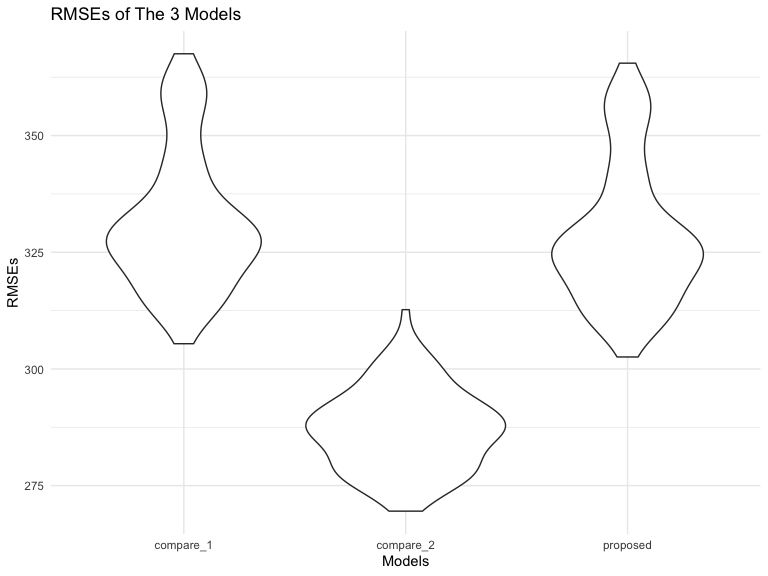
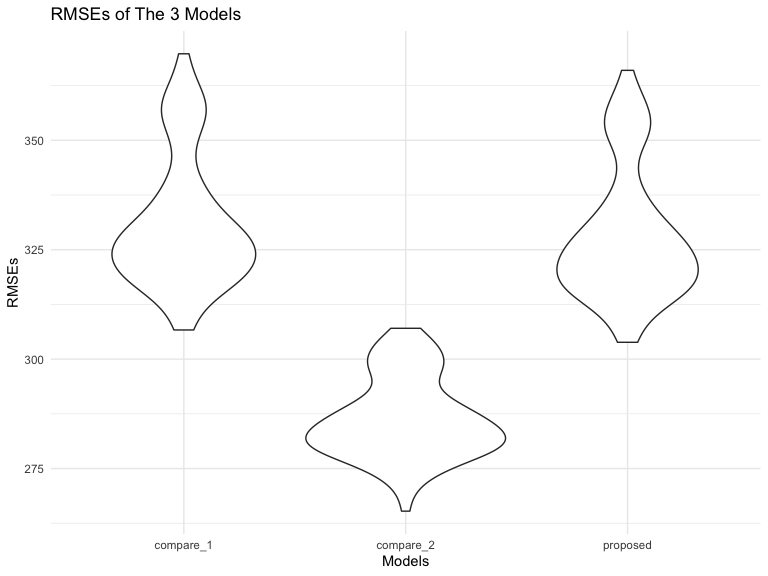
Add explaination to p2 and p3

diff --git a/p8105_hw6_hj2596.md b/p8105_hw6_hj2596.md
@@ -38,7 +38,9 @@ homicide_data=
 ```
 
 Created a new variable `city_state` by concatenating city and state,
-seperateing with ‘,’.
+seperateing with ‘,’. Omitted cities Dallas, TX; Phoenix, AZ; and Kansas
+City, MO– these don’t report victim race. Also omitted Tulsa, AL – this
+is a data entry mistake.
 
 ``` r
 logistic_Baltimore = 
@@ -46,6 +48,10 @@ logistic_Baltimore =
   filter(city_state == "Baltimore, MD") %>% 
   glm(solved ~ victim_age + victim_sex + victim_race, data = ., family = binomial()) 
 ```
+
+Use glm on the to fit a lofisitc regression model with resolved vs
+unresolved as the outcome and victim age, sex and race as predictors.
+Save the output of glm as an R object;
 
 ``` r
 logistic_Baltimore %>% 
@@ -56,6 +62,8 @@ logistic_Baltimore %>%
     ##   null.deviance df.null logLik   AIC   BIC deviance df.residual  nobs
     ##           <dbl>   <int>  <dbl> <dbl> <dbl>    <dbl>       <int> <int>
     ## 1         3568.    2752 -1746. 3501. 3524.    3493.        2749  2753
+
+Take a glance at the saved result.
 
 ``` r
 logistic_Baltimore %>% 
@@ -74,6 +82,10 @@ logistic_Baltimore %>%
 |:---------------|---------:|------:|---------:|---------:|
 | victim_sexMale |   -0.854 | 0.426 |    0.325 |    0.558 |
 
+Use broom tidy to tidy up the result. Get the odds ratio of case being
+solved comparing those with sex as male to those with sex as female and
+the 95% CI for it.
+
 ``` r
 logistic_all_cities = function(dataset) {
     dataset %>%
@@ -88,8 +100,9 @@ logistic_all_cities = function(dataset) {
 }
 ```
 
-Create a function to be applied to the dataset in the next steps for
-each of the cities.
+Create a function to fit the regression model and get the odds ratio and
+CI similar to the process we have done to Baltimore. It is going to be
+applied to the data set in the next steps for each of the cities.
 
 ``` r
 logit_result_cities = 
@@ -170,11 +183,14 @@ logit_result_cities %>%
 ```
 
 <img src="p8105_hw6_hj2596_files/figure-gfm/unnamed-chunk-9-1.png" width="90%" />
-
 Run glm on each city_state and get the Odds Ratio of case being solved
 comparing those with sex as male to those with sex as female, and also
 get the CI of that OR. Using geom_error bar to show the OR and the CI
-together in one plot.
+together in one plot. We can see that New York, NY has the smallest odds
+ratio of solving homicides comparing those identified as male to those
+identified as female. And Albuquerque, NM has the highest odds ratio of
+solving homicides comparing those identidied as male to those identified
+as female.
 
 # Question 3
 
@@ -202,18 +218,21 @@ birthweight_data =
 proposed_model = lm(bwt ~ fincome+blength+gaweeks, data = birthweight_data)
 ```
 
+The proposed model I have is using using family monthly income (in
+hundreds, rounded), length at birth and gestational age as predictors.
+
 ``` r
 proposed_model %>%
   broom::tidy() %>% 
-  knitr::kable(digits = 4)
+  knitr::kable(digits = 3)
 ```
 
-| term        |   estimate | std.error | statistic | p.value |
-|:------------|-----------:|----------:|----------:|--------:|
-| (Intercept) | -4335.8348 |   97.1685 |  -44.6218 |       0 |
-| fincome     |     1.6579 |    0.1944 |    8.5280 |       0 |
-| blength     |   127.8218 |    1.9755 |   64.7029 |       0 |
-| gaweeks     |    25.8180 |    1.7100 |   15.0984 |       0 |
+| term        |  estimate | std.error | statistic | p.value |
+|:------------|----------:|----------:|----------:|--------:|
+| (Intercept) | -4335.835 |    97.169 |   -44.622 |       0 |
+| fincome     |     1.658 |     0.194 |     8.528 |       0 |
+| blength     |   127.822 |     1.976 |    64.703 |       0 |
+| gaweeks     |    25.818 |     1.710 |    15.098 |       0 |
 
 ``` r
 proposed_plot =
@@ -252,16 +271,16 @@ cv_df
     ## # A tibble: 100 × 9
     ##    train    test     .id   proposed compare_1 compare_2 rmse_p…¹ rmse_…² rmse_…³
     ##    <list>   <list>   <chr> <list>   <list>    <list>       <dbl>   <dbl>   <dbl>
-    ##  1 <tibble> <tibble> 001   <lm>     <lm>      <lm>          327.    328.    287.
-    ##  2 <tibble> <tibble> 002   <lm>     <lm>      <lm>          318.    321.    292.
-    ##  3 <tibble> <tibble> 003   <lm>     <lm>      <lm>          319.    323.    290.
-    ##  4 <tibble> <tibble> 004   <lm>     <lm>      <lm>          330.    332.    288.
-    ##  5 <tibble> <tibble> 005   <lm>     <lm>      <lm>          314.    319.    275.
-    ##  6 <tibble> <tibble> 006   <lm>     <lm>      <lm>          325.    327.    278.
-    ##  7 <tibble> <tibble> 007   <lm>     <lm>      <lm>          366.    368.    306.
-    ##  8 <tibble> <tibble> 008   <lm>     <lm>      <lm>          356.    361.    301.
-    ##  9 <tibble> <tibble> 009   <lm>     <lm>      <lm>          321.    325.    286.
-    ## 10 <tibble> <tibble> 010   <lm>     <lm>      <lm>          326.    329.    284.
+    ##  1 <tibble> <tibble> 001   <lm>     <lm>      <lm>          338.    340.    288.
+    ##  2 <tibble> <tibble> 002   <lm>     <lm>      <lm>          316.    318.    279.
+    ##  3 <tibble> <tibble> 003   <lm>     <lm>      <lm>          332.    336.    286.
+    ##  4 <tibble> <tibble> 004   <lm>     <lm>      <lm>          309.    312.    265.
+    ##  5 <tibble> <tibble> 005   <lm>     <lm>      <lm>          315.    320.    284.
+    ##  6 <tibble> <tibble> 006   <lm>     <lm>      <lm>          322.    326.    283.
+    ##  7 <tibble> <tibble> 007   <lm>     <lm>      <lm>          328.    328.    286.
+    ##  8 <tibble> <tibble> 008   <lm>     <lm>      <lm>          338.    342.    286.
+    ##  9 <tibble> <tibble> 009   <lm>     <lm>      <lm>          317.    319.    291.
+    ## 10 <tibble> <tibble> 010   <lm>     <lm>      <lm>          320.    322.    286.
     ## # … with 90 more rows, and abbreviated variable names ¹rmse_proposed,
     ## #   ²rmse_compare_1, ³rmse_compare_2
 
@@ -283,3 +302,8 @@ cv_df %>%
 ```
 
 <img src="p8105_hw6_hj2596_files/figure-gfm/unnamed-chunk-15-1.png" width="90%" />
+We can see the model compare_1 that using length at birth and
+gestational age as predictors (main effects only) has the largest RMSEs.
+And the model compare_2 that using head circumference, length, sex, and
+all interactions (including the three-way interaction) between these has
+the smallest RMSE of the three models.
